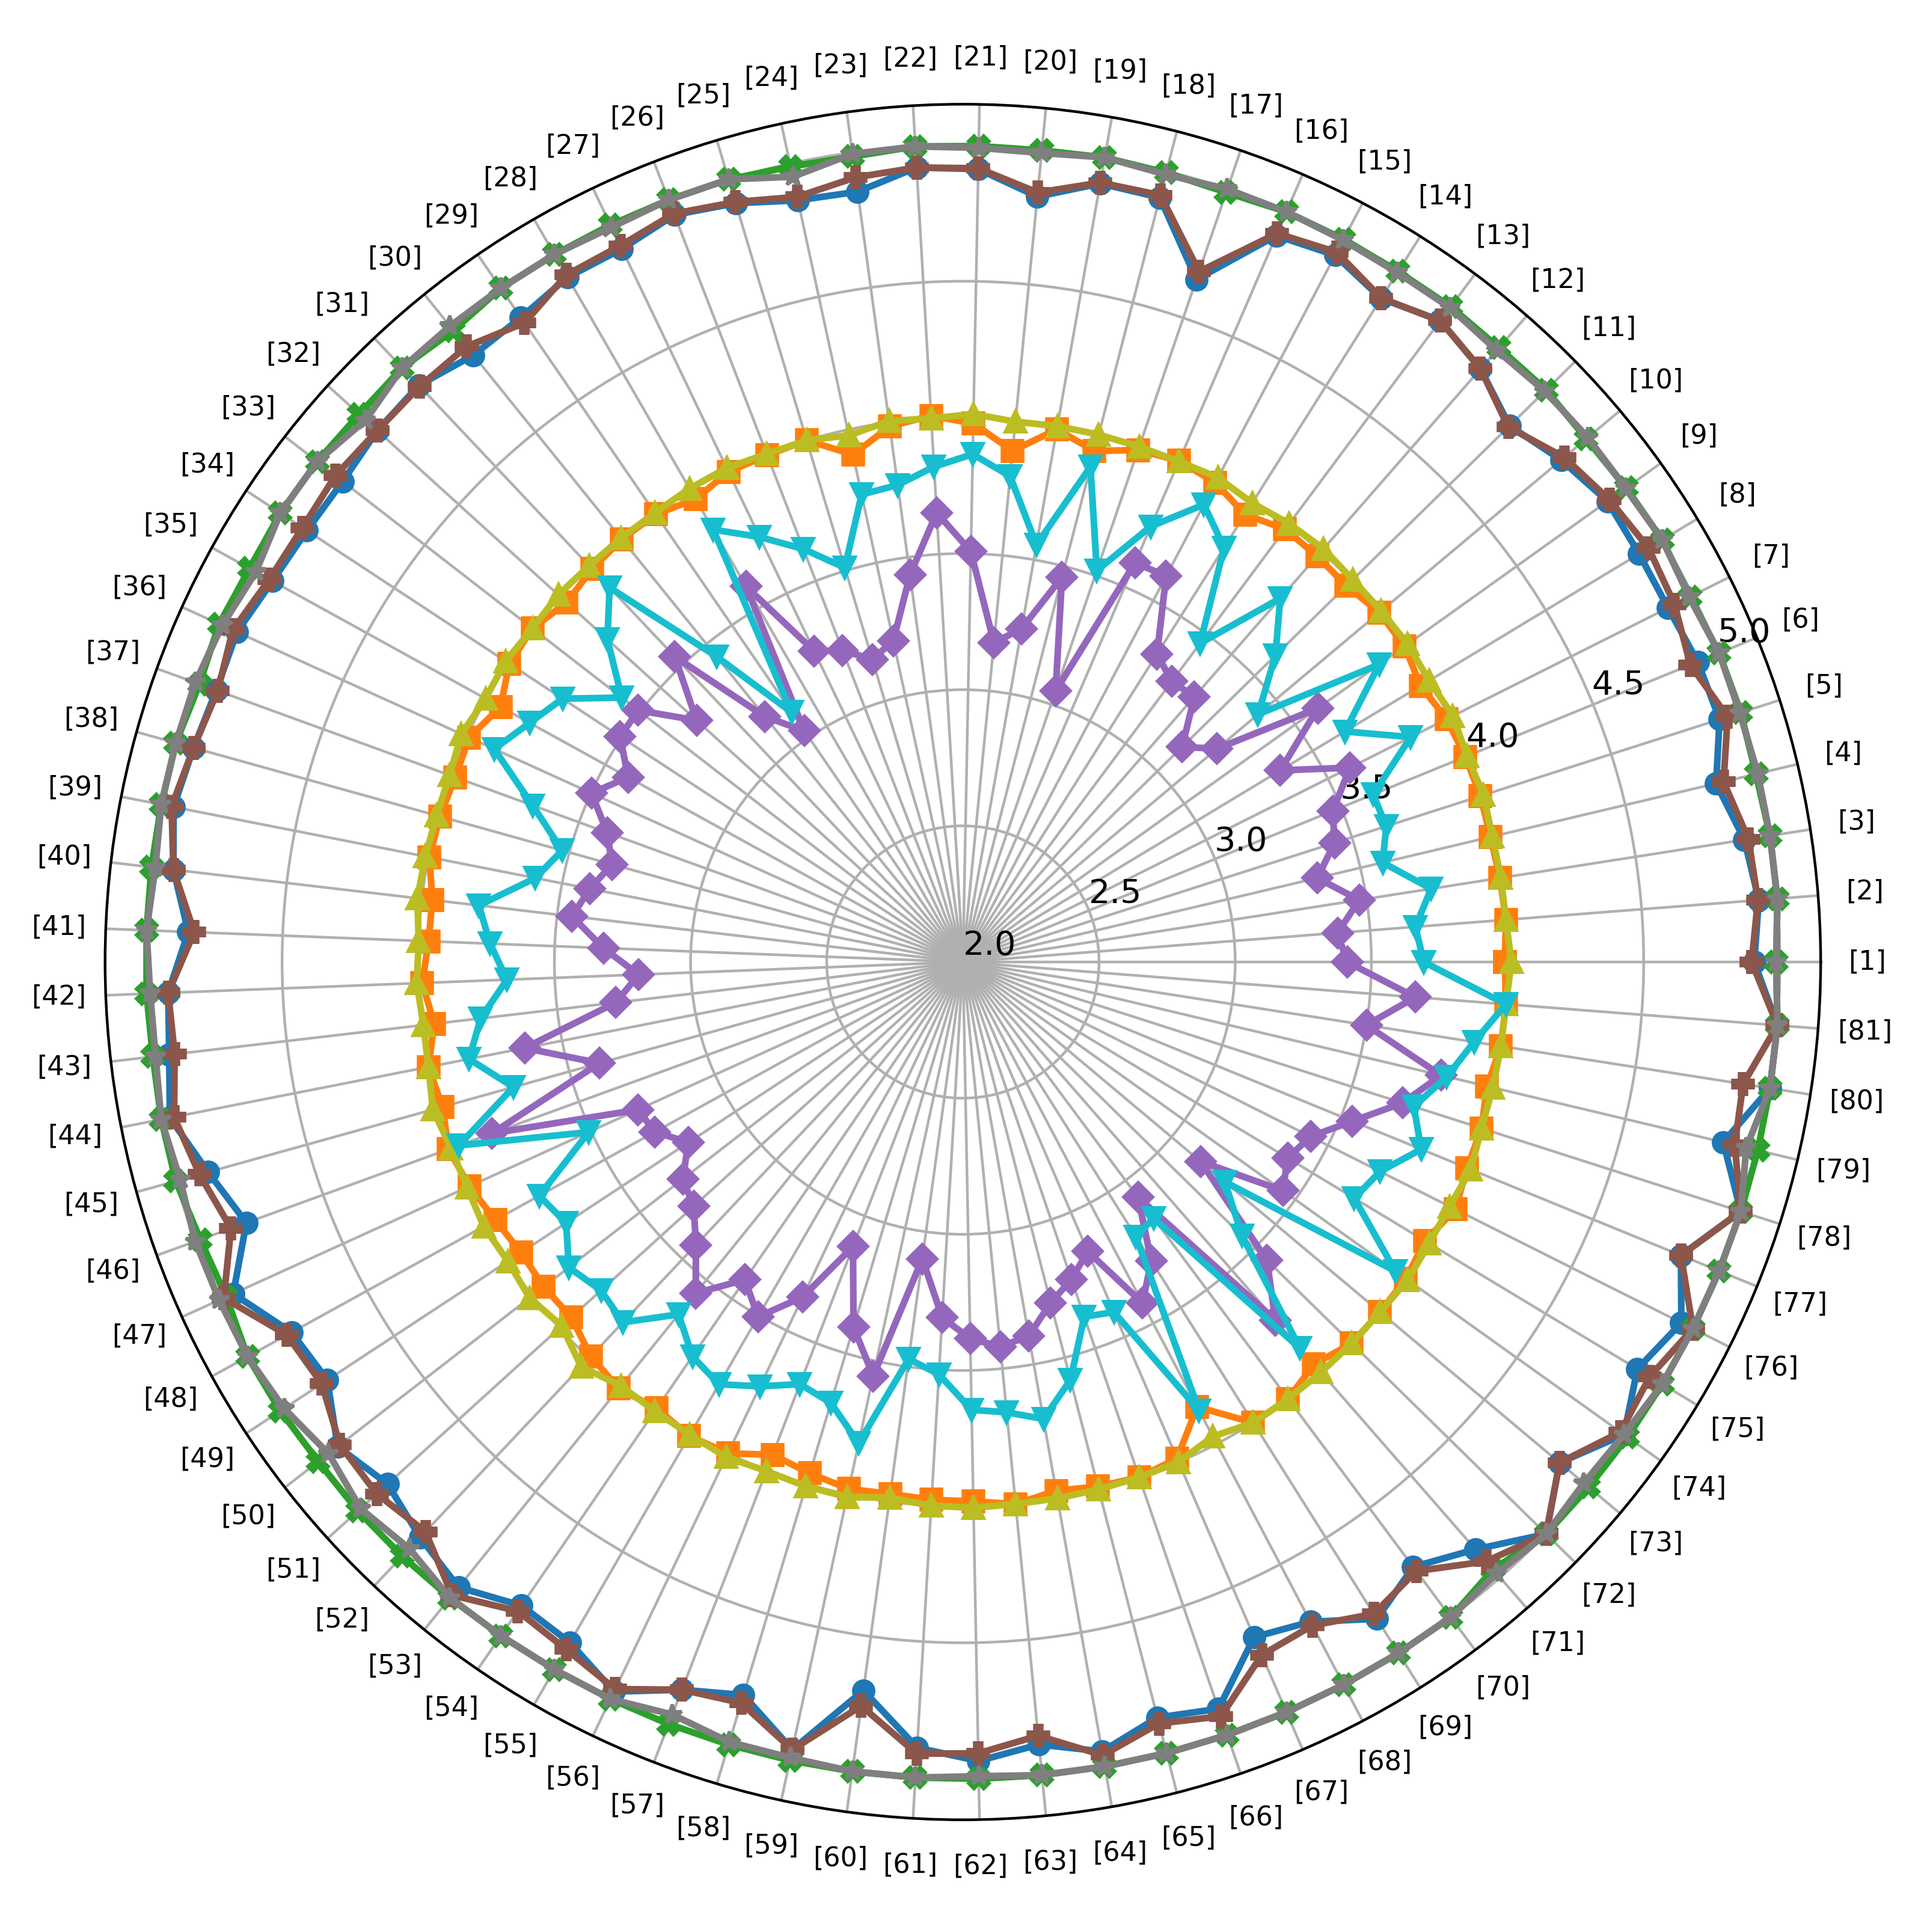
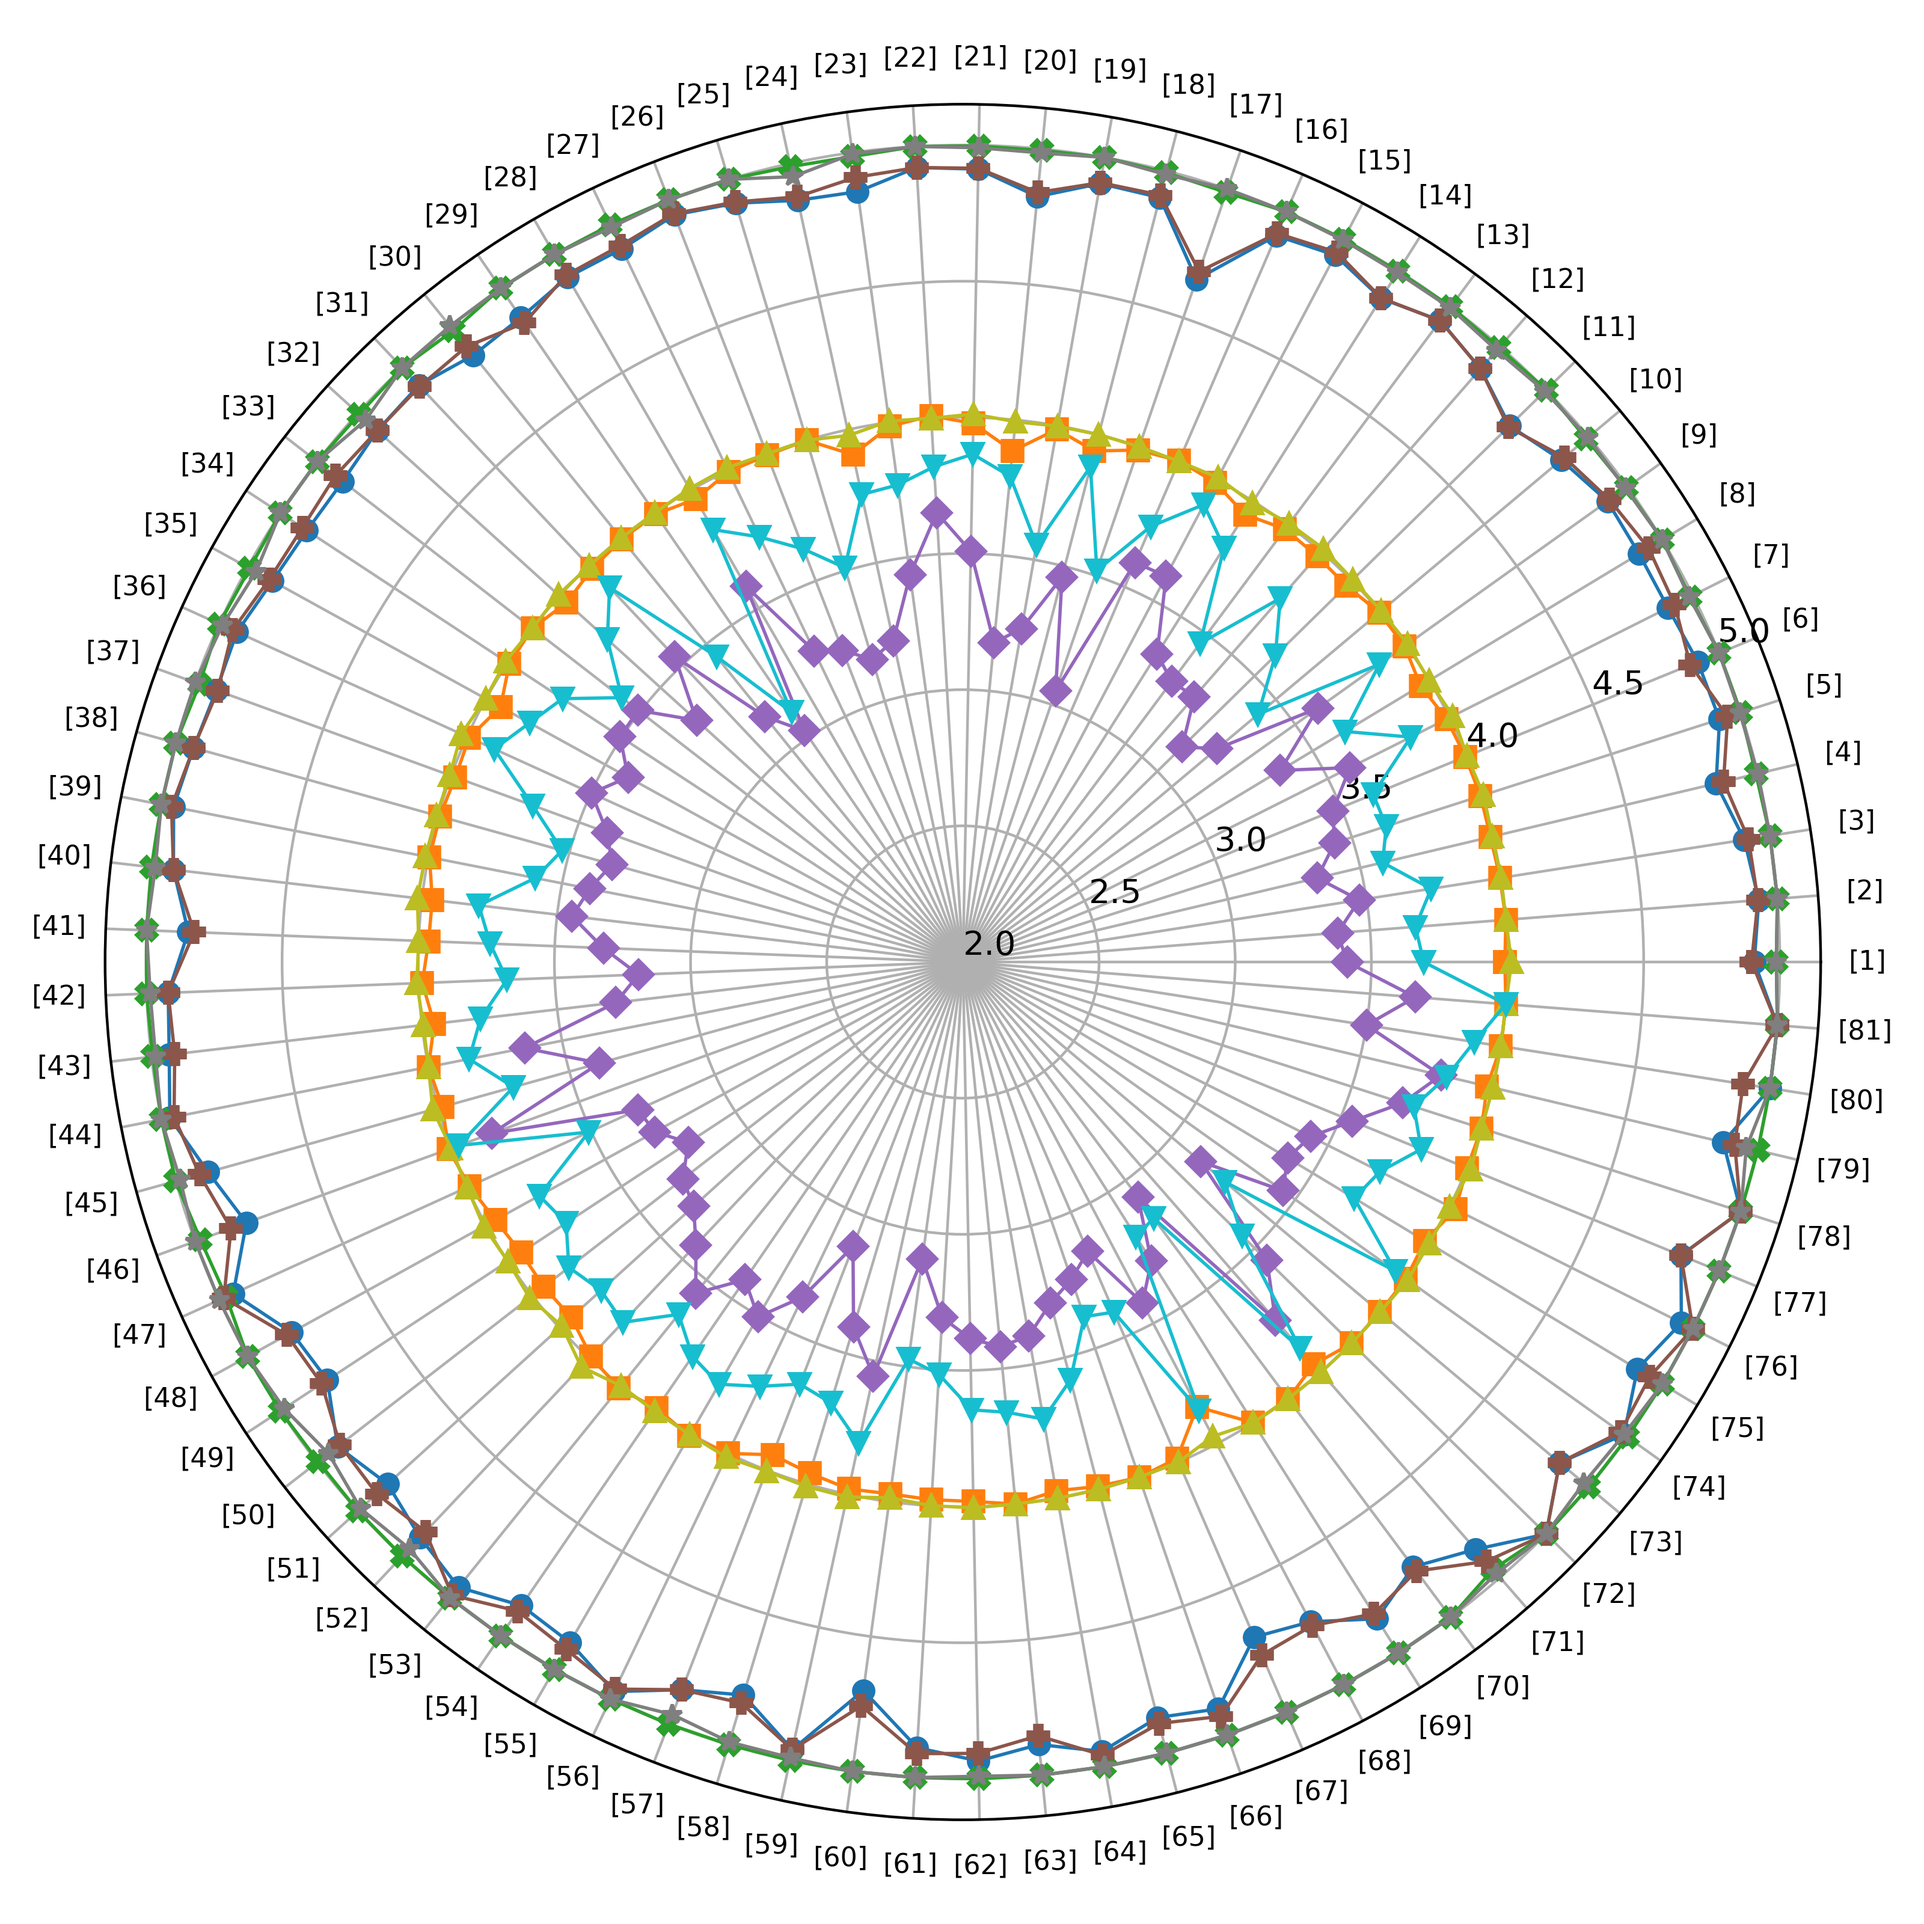
update plots

diff --git a/utils/plot_result_per_topic.py b/utils/plot_result_per_topic.py
@@ -34,7 +34,7 @@ def plot_tasks_per_topic(df, fpath):
         ax.plot(angles, values, label=metric,
         marker=markers[i % len(markers)],
         color=colors(i),
-        linewidth=2,
+        linewidth=1,
         markersize=6)
         # Fill area under the plot
         # ax.fill(angles, values, color=colors(i), alpha=0.1)
